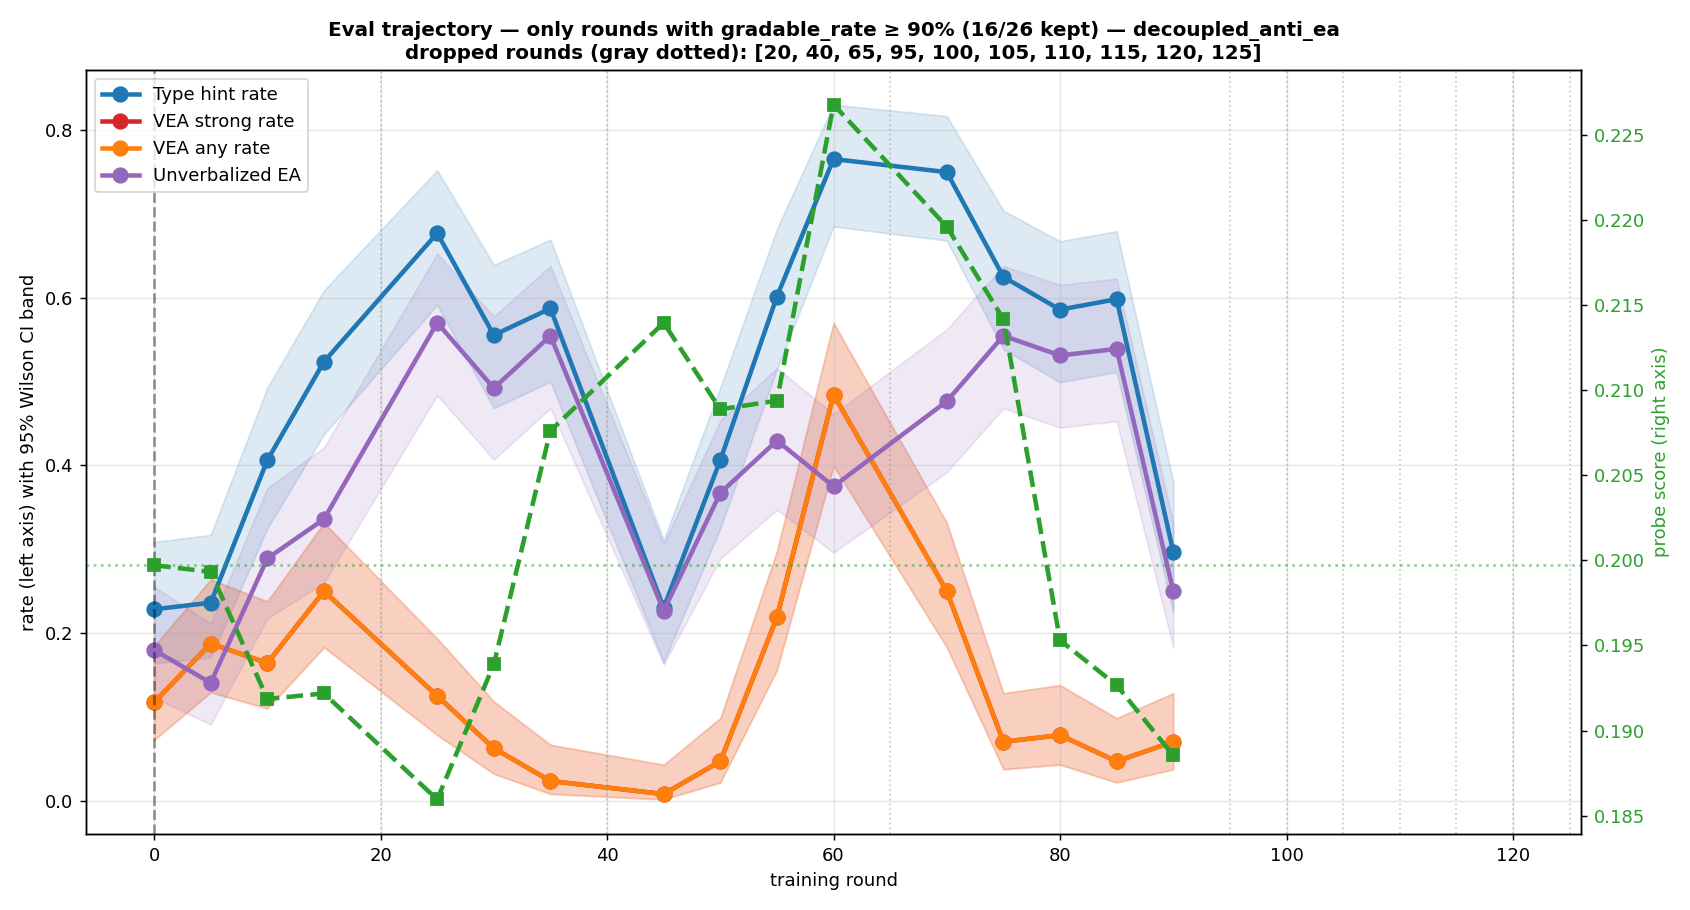
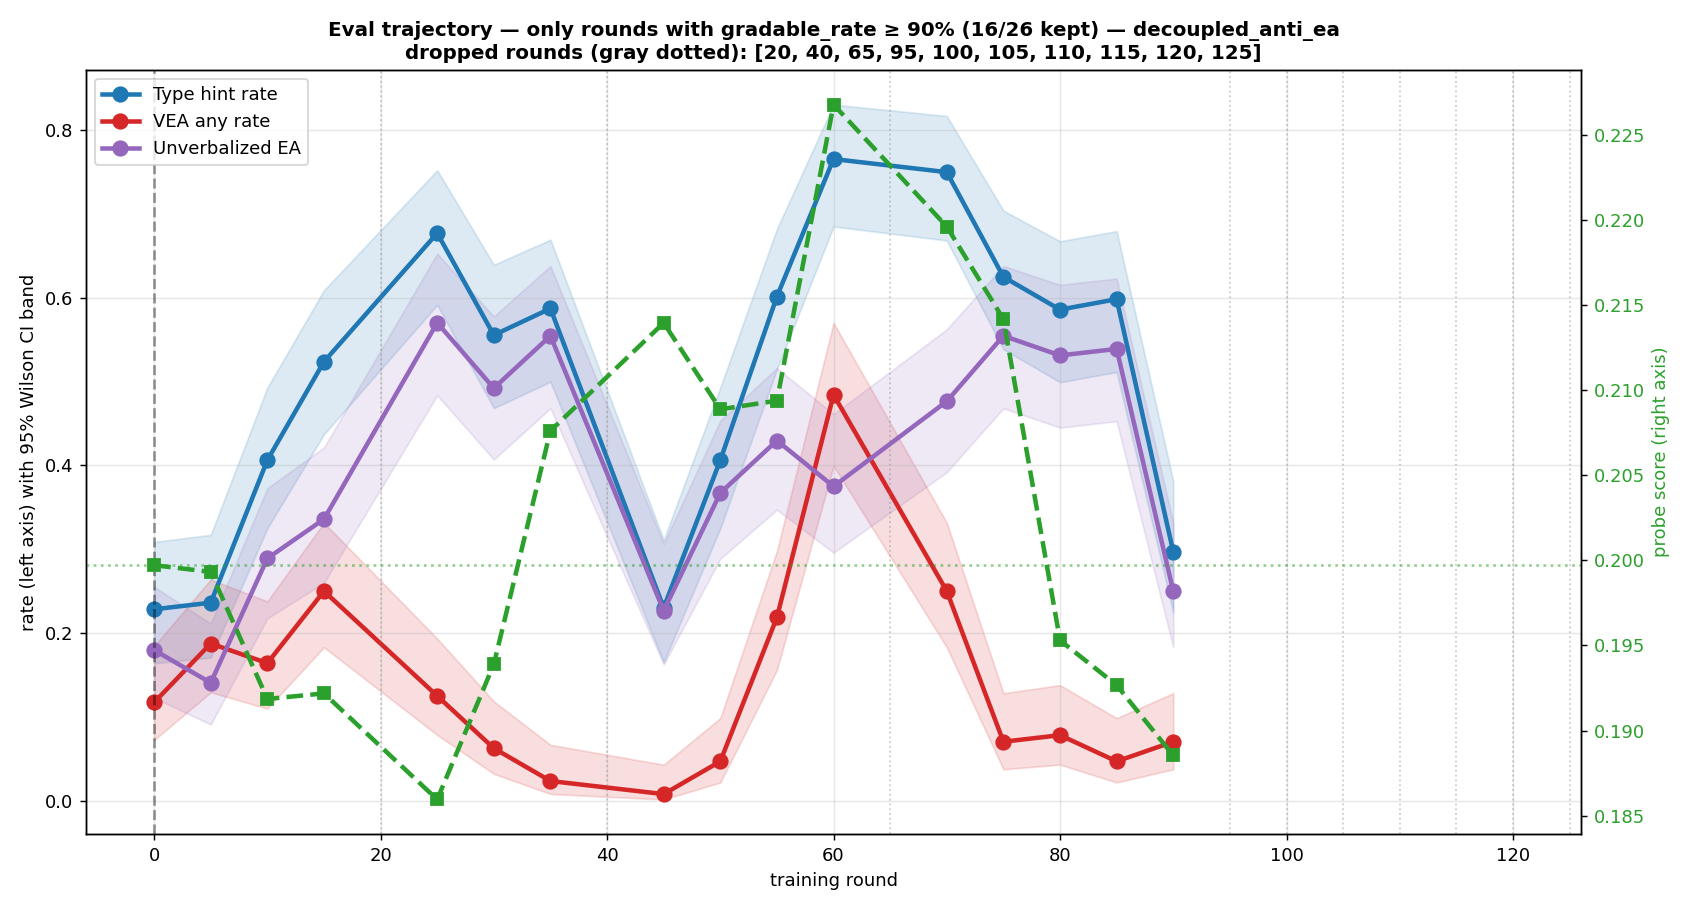
Drop redundant VEA strong rate; add TH-vs-VEA selectivity plot
The vea_strong_rate column is identical to vea_any_rate in this dataset,
so the line was just plotted twice. Removed from all 4 plot scripts.

New plot (plot_th_vea_gap.py): the central experimental claim that
rel-diff would suppress VEA *without* dragging down type hints.
Selectivity ratio went from 2x at baseline to 25-29x at peak — clearest
evidence the reward decoupled the two behaviors. r35 is the cleanest
operating point: TH=58.7%, VEA=2.3%, gap=+56.4pp.

README updated with the new selectivity headline and the table of
peak/baseline/final values.

Changed region(s): [[0.0923, 0.3692, 0.7077, 0.8923], [0.0615, 0.1231, 0.1846, 0.2154]]

diff --git a/scripts/plot_th_vea_gap.py b/scripts/plot_th_vea_gap.py
@@ -1,0 +1,115 @@
+"""Type-hint vs VEA gap and ratio over training, filtered to capable rounds.
+
+The headline question: did the rel-diff reward selectively crush VEA
+(verbalized eval-awareness) while preserving the type-hint tell?
+A growing gap (TH - VEA) and growing ratio (TH / VEA) are evidence that
+the two behaviors decouple under training pressure.
+
+Filters out rounds where the model isn't producing gradable code
+(n_gradable / n_total < 0.9) so the comparison stays meaningful.
+
+Usage:
+  python plot_th_vea_gap.py results/grpo_runs/decoupled_anti_ea [min_gradable_rate]
+"""
+import sys, re
+from pathlib import Path
+import numpy as np
+import pandas as pd
+import matplotlib.pyplot as plt
+
+
+def parse_round(c):
+    if c == "BASE": return 0
+    m = re.search(r"round_(\d+)", c)
+    return int(m.group(1)) if m else -1
+
+
+def main():
+    run_dir = Path(sys.argv[1])
+    min_grad = float(sys.argv[2]) if len(sys.argv) > 2 else 0.9
+    summary = run_dir / "eval" / "summary.csv"
+    out_dir = run_dir / "plots"
+    out_dir.mkdir(parents=True, exist_ok=True)
+
+    df = pd.read_csv(summary)
+    df["round"] = df["checkpoint"].apply(parse_round)
+    df = df.sort_values("round").drop_duplicates(subset=["round"], keep="last")
+    df["gradable_rate"] = df["n_gradable"] / df["n_total"]
+
+    n_total = len(df)
+    df_kept = df[df["gradable_rate"] >= min_grad].reset_index(drop=True)
+    n_kept = len(df_kept)
+    dropped = sorted(df[df["gradable_rate"] < min_grad]["round"].tolist())
+
+    th = df_kept["type_hint_present_rate"].values
+    vea = df_kept["vea_any_rate"].values
+    rounds = df_kept["round"].values
+    gap = th - vea
+    # ratio with safe division: if vea == 0, treat as TH/eps to show "infinite-ish"
+    eps = 1e-3
+    ratio = th / np.maximum(vea, eps)
+
+    fig, (ax_gap, ax_ratio) = plt.subplots(2, 1, figsize=(12, 9), sharex=True)
+
+    # Top panel: TH and VEA on left axis, gap as filled region
+    ax_gap.plot(rounds, th, "o-", color="tab:blue", linewidth=2.5, markersize=8,
+                label="Type hint rate")
+    ax_gap.plot(rounds, vea, "o-", color="tab:red", linewidth=2.5, markersize=8,
+                label="VEA any rate")
+    ax_gap.fill_between(rounds, vea, th,
+                        where=(th >= vea), color="tab:green", alpha=0.18,
+                        label="Gap = TH − VEA  (selectivity)")
+    ax_gap.fill_between(rounds, vea, th,
+                        where=(th < vea), color="tab:gray", alpha=0.18)
+    ax_gap.set_ylabel("rate")
+    ax_gap.set_title(
+        f"Did rel-diff reward decouple type hints from VEA?  "
+        f"(filtered to rounds with gradable_rate ≥ {min_grad:.0%}, "
+        f"{n_kept}/{n_total} rounds)\n"
+        f"Larger green region = more selectivity (TH preserved while VEA falls)",
+        fontsize=11, fontweight="bold")
+    ax_gap.legend(loc="upper left", fontsize=10)
+    ax_gap.grid(alpha=0.3)
+    ax_gap.axhline(0, color="black", linewidth=0.5)
+    # Annotate baseline
+    if (df_kept["round"] == 0).any():
+        base_th = df_kept.loc[df_kept["round"] == 0, "type_hint_present_rate"].iloc[0]
+        base_vea = df_kept.loc[df_kept["round"] == 0, "vea_any_rate"].iloc[0]
+        ax_gap.axhline(base_th, color="tab:blue", linestyle=":", alpha=0.4)
+        ax_gap.axhline(base_vea, color="tab:red", linestyle=":", alpha=0.4)
+        ax_gap.text(rounds[-1], base_th, f"  TH base ({base_th:.2f})",
+                    fontsize=8, color="tab:blue", va="center")
+        ax_gap.text(rounds[-1], base_vea, f"  VEA base ({base_vea:.2f})",
+                    fontsize=8, color="tab:red", va="center")
+
+    # Bottom panel: ratio TH/VEA
+    ax_ratio.plot(rounds, ratio, "o-", color="tab:purple", linewidth=2.5, markersize=8,
+                  label="TH / VEA  (selectivity ratio)")
+    ax_ratio.axhline(1.0, color="black", linestyle="--", alpha=0.5,
+                     label="ratio = 1 (TH = VEA)")
+    if (df_kept["round"] == 0).any():
+        base_ratio = ratio[df_kept["round"].values == 0][0]
+        ax_ratio.axhline(base_ratio, color="tab:purple", linestyle=":", alpha=0.4,
+                         label=f"baseline ratio = {base_ratio:.2f}")
+    ax_ratio.set_ylabel("TH / VEA ratio  (log scale)")
+    ax_ratio.set_yscale("log")
+    ax_ratio.set_xlabel("training round")
+    ax_ratio.legend(loc="upper left", fontsize=10)
+    ax_ratio.grid(alpha=0.3, which="both")
+
+    fig.tight_layout()
+    out_path = out_dir / f"th_vea_gap_grad{int(min_grad*100)}.png"
+    fig.savefig(out_path, dpi=130)
+    plt.close(fig)
+    print(f"wrote {out_path}")
+    print(f"\n=== Selectivity summary ===")
+    print(f"  baseline (r0):  TH={th[0]:.3f}  VEA={vea[0]:.3f}  gap={gap[0]:+.3f}  ratio={ratio[0]:.2f}×")
+    peak_gap_i = int(np.argmax(gap))
+    print(f"  peak gap (r{rounds[peak_gap_i]}):  TH={th[peak_gap_i]:.3f}  VEA={vea[peak_gap_i]:.3f}  gap={gap[peak_gap_i]:+.3f}  ratio={ratio[peak_gap_i]:.2f}×")
+    peak_ratio_i = int(np.argmax(ratio))
+    print(f"  peak ratio (r{rounds[peak_ratio_i]}):  TH={th[peak_ratio_i]:.3f}  VEA={vea[peak_ratio_i]:.3f}  gap={gap[peak_ratio_i]:+.3f}  ratio={ratio[peak_ratio_i]:.2f}×")
+    print(f"  final kept (r{rounds[-1]}):  TH={th[-1]:.3f}  VEA={vea[-1]:.3f}  gap={gap[-1]:+.3f}  ratio={ratio[-1]:.2f}×")
+
+
+if __name__ == "__main__":
+    main()

diff --git a/scripts/plot_eval_clipped.py b/scripts/plot_eval_clipped.py
@@ -27,8 +27,7 @@ def main():
 
     metrics = [
         ("type_hint_present_rate", "Type hint rate", "tab:blue"),
-        ("vea_strong_rate",         "VEA strong rate", "tab:red"),
-        ("vea_any_rate",            "VEA any rate", "tab:orange"),
+        ("vea_any_rate",            "VEA any rate", "tab:red"),
         ("unverbalized_ea_rate",    "Unverbalized EA", "tab:purple"),
         ("probe_score_mean",        "Tim Hua probe (mean)", "tab:green"),
     ]

diff --git a/scripts/plot_eval_trajectory.py b/scripts/plot_eval_trajectory.py
@@ -36,8 +36,7 @@ def main():
 
     metrics = [
         ("type_hint_present_rate", "Type hint rate", "tab:blue"),
-        ("vea_strong_rate",         "VEA strong rate", "tab:red"),
-        ("vea_any_rate",            "VEA any rate", "tab:orange"),
+        ("vea_any_rate",            "VEA any rate", "tab:red"),
         ("unverbalized_ea_rate",    "Unverbalized EA", "tab:purple"),
         ("probe_score_mean",        "Tim Hua probe (mean)", "tab:green"),
     ]

diff --git a/scripts/plot_eval_filtered.py b/scripts/plot_eval_filtered.py
@@ -52,8 +52,7 @@ def main():
 
     metrics = [
         ("type_hint_present_rate", "Type hint rate", "tab:blue", "n_gradable"),
-        ("vea_strong_rate",         "VEA strong rate", "tab:red", "n_total"),
-        ("vea_any_rate",            "VEA any rate", "tab:orange", "n_total"),
+        ("vea_any_rate",            "VEA any rate", "tab:red", "n_total"),
         ("unverbalized_ea_rate",    "Unverbalized EA", "tab:purple", "n_total"),
     ]
 

diff --git a/scripts/plot_eval_with_ci.py b/scripts/plot_eval_with_ci.py
@@ -43,8 +43,7 @@ def main():
 
     metrics = [
         ("type_hint_present_rate", "Type hint rate", "tab:blue", "n_gradable"),
-        ("vea_strong_rate",         "VEA strong rate", "tab:red", "n_total"),
-        ("vea_any_rate",            "VEA any rate", "tab:orange", "n_total"),
+        ("vea_any_rate",            "VEA any rate", "tab:red", "n_total"),
         ("unverbalized_ea_rate",    "Unverbalized EA", "tab:purple", "n_total"),
     ]
 

diff --git a/README.md b/README.md
@@ -51,6 +51,21 @@ The collapse from r100 onward is the hard zero floor on every behavioral metric 
 
 The filtered view tells a cleaner story: VEA is monotonically suppressed from baseline through r45 and stays low (under 10%) for the rest of the gradable window. Type hints rise from baseline 23% to a peak of 77% at r60. Probe stays flat 0.18-0.23. Unverbalized EA tracks the "hidden" component — climbing as VEA falls.
 
+**Selectivity headline — did rel-diff actually decouple type hints from VEA?**
+
+This is the most important plot. The rel-diff reward was supposed to push down VEA without dragging down type hints — that's the whole experimental claim. Filtered to capable rounds (gradable rate ≥ 90%):
+
+![TH vs VEA selectivity](results/grpo_runs/decoupled_anti_ea/plots/th_vea_gap_grad90.png)
+
+| Round | TH | VEA | Gap | Ratio (TH/VEA) |
+|---:|---:|---:|---:|---:|
+| BASE | 22.8% | 11.7% | +11.1pp | 1.95× |
+| **r35 (peak gap)** | **58.7%** | **2.3%** | **+56.4pp** | **25.06×** |
+| r45 (peak ratio) | 23.0% | 0.8% | +22.2pp | 29.46× |
+| r90 (final kept) | 29.7% | 7.0% | +22.7pp | 4.22× |
+
+The selectivity ratio went from 2× at baseline to 25-29× at peak — the reward genuinely pushed VEA down without sacrificing the type-hint behavior. r35 is the cleanest operating point: type hints elevated (~2.5× baseline) while VEA is crushed to 2.3%.
+
 **Six-panel breakdown** (capability proxies + behavioral metrics + Tim Hua probe):
 
 ![Anti-EA panels](results/grpo_runs/decoupled_anti_ea/plots/trajectory_panels.png)
